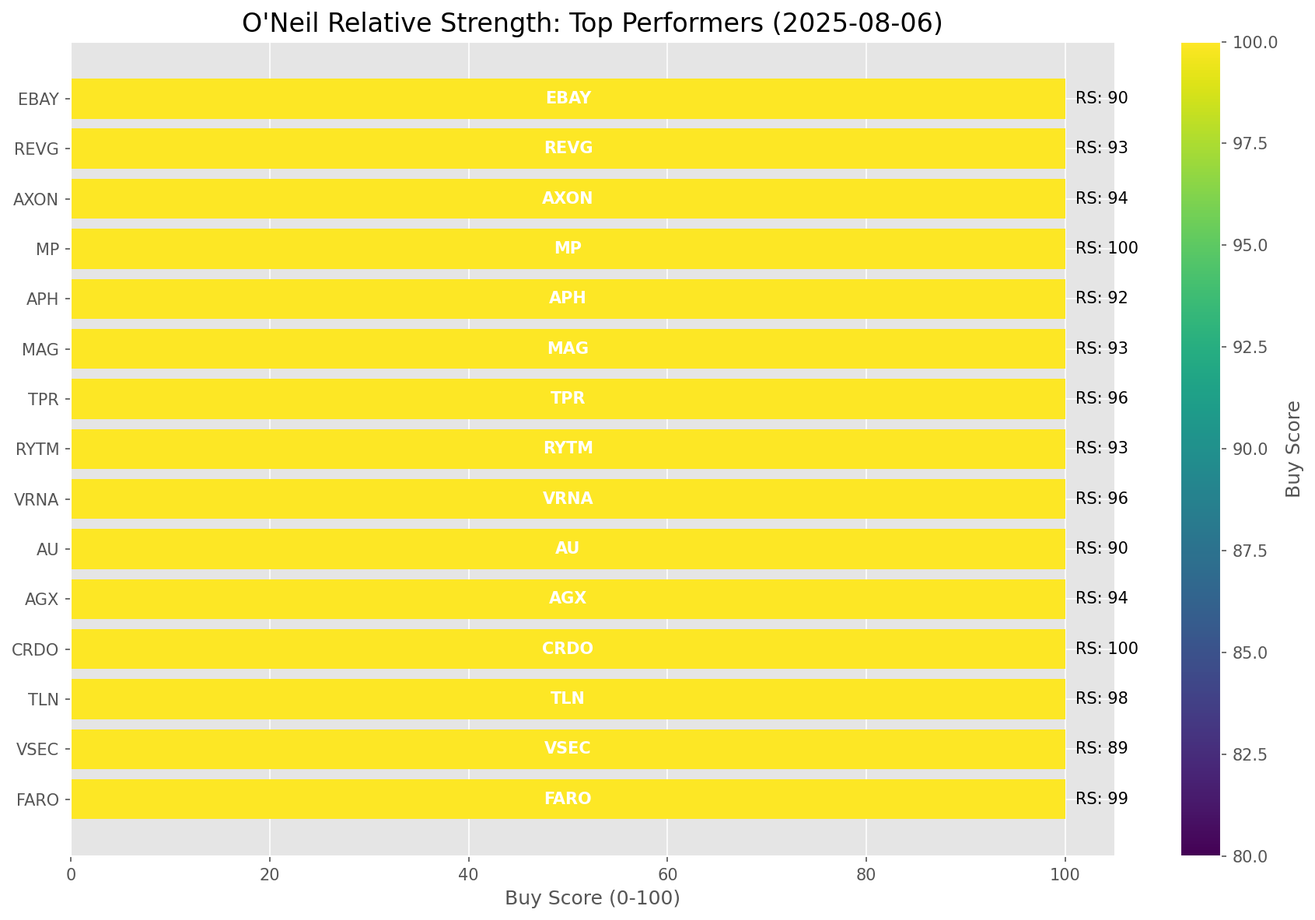
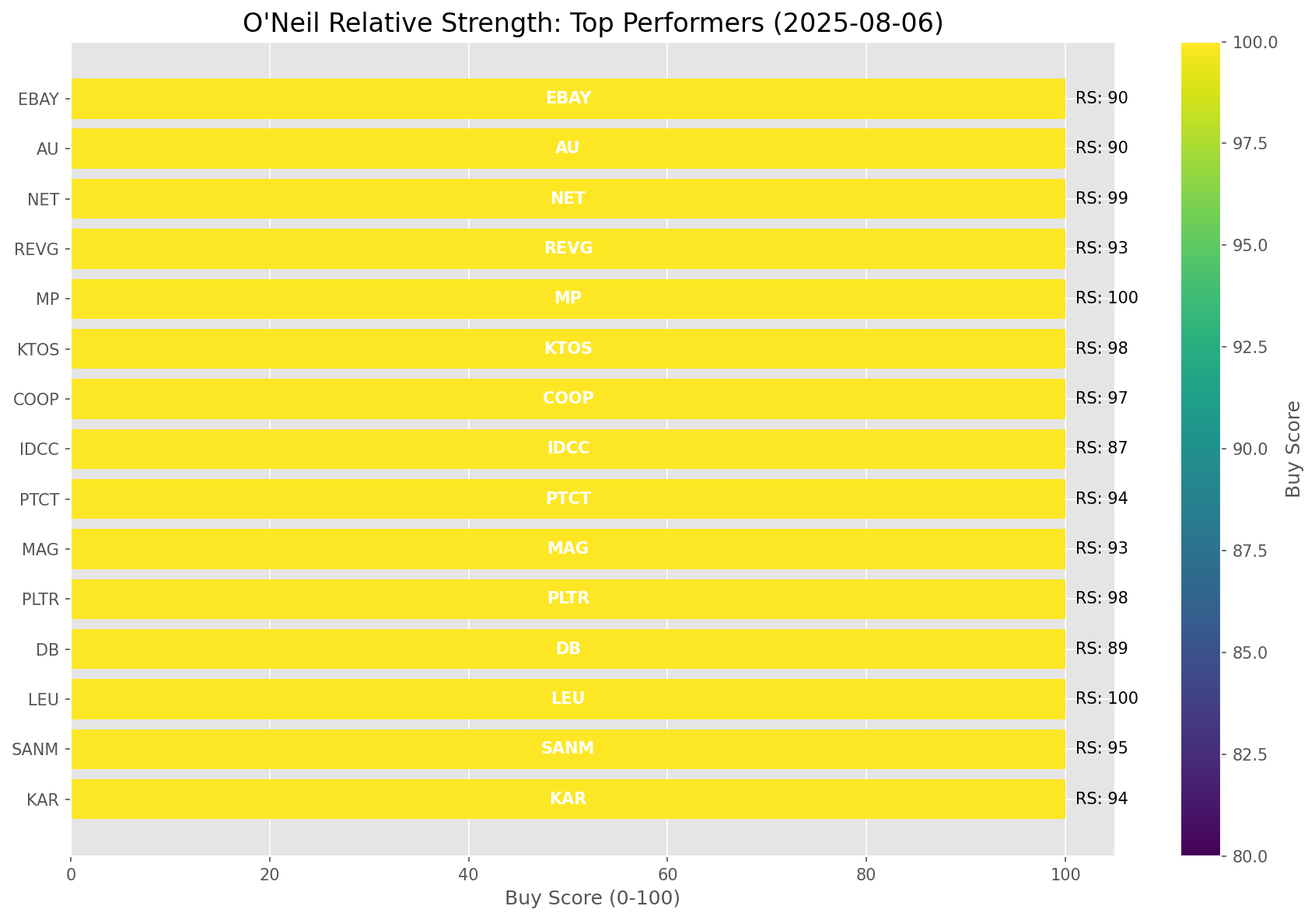
Add market report for 2025-08-06

diff --git a/oneil_relative_strength_report_2025-08-06.md b/oneil_relative_strength_report_2025-08-06.md
@@ -9,11 +9,11 @@
 | Metric | Value |
 |--------|-------|
 | **Market Valuation** | **Overvalued** |
-| **Current Ratio** | 10.21 |
+| **Current Ratio** | 10.24 |
 | **Historical Mean** | 9.62 |
 | **Standard Deviation** | 0.54 |
 | **Z-Score (StdDev from Mean)** | 1.06 |
-| **Total Market Cap** | $309.77 trillion |
+| **Total Market Cap** | $310.57 trillion |
 | **GDP** | $30.33 trillion |
 
 ## **Market Insights**
@@ -49,41 +49,41 @@ Based on William O'Neil's Relative Strength Methodology
 
 | ETF | Strength | RS Rating | Performance | Above Key MAs | Trend | Sector |
 |-----|----------|-----------|-------------|--------------|-------|--------|
-| [URA](https://www.tradingview.com/chart/?symbol=URA) | 98.5 | 97.0 | 57.26% | 10d ✓, 50d ✓, 200d ✓ | ↗ | Uranium |
-| [ARKK](https://www.tradingview.com/chart/?symbol=ARKK) | 88.1 | 96.0 | 49.96% | 10d ✗, 50d ✓, 200d ✓ | ↗ | Innovation |
+| [URA](https://www.tradingview.com/chart/?symbol=URA) | 98.5 | 97.0 | 56.12% | 10d ✓, 50d ✓, 200d ✓ | ↗ | Uranium |
+| [ARKK](https://www.tradingview.com/chart/?symbol=ARKK) | 88.1 | 96.0 | 50.25% | 10d ✗, 50d ✓, 200d ✓ | ↗ | Innovation |
+| [ARKF](https://www.tradingview.com/chart/?symbol=ARKF) | 87.6 | 95.0 | 48.00% | 10d ✗, 50d ✓, 200d ✓ | ↗ | Fintech Innovation |
 | [ARKW](https://www.tradingview.com/chart/?symbol=ARKW) | 87.6 | 95.0 | 47.67% | 10d ✗, 50d ✓, 200d ✓ | ↗ | Next Generation Internet |
-| [ARKF](https://www.tradingview.com/chart/?symbol=ARKF) | 87.6 | 95.0 | 48.08% | 10d ✗, 50d ✓, 200d ✓ | ↗ | Fintech Innovation |
 | [BLOK](https://www.tradingview.com/chart/?symbol=BLOK) | 86.6 | 93.0 | 37.83% | 10d ✗, 50d ✓, 200d ✓ | ↗ | Blockchain & Cryptocurrency |
-| [SLV](https://www.tradingview.com/chart/?symbol=SLV) | 85.0 | 70.0 | 13.89% | 10d ✓, 50d ✓, 200d ✓ | ↗ | Silver |
-| [XLK](https://www.tradingview.com/chart/?symbol=XLK) | 81.1 | 82.0 | 22.22% | 10d ✗, 50d ✓, 200d ✓ | ↗ | Technology |
-| [IYZ](https://www.tradingview.com/chart/?symbol=IYZ) | 81.0 | 62.0 | 9.99% | 10d ✓, 50d ✓, 200d ✓ | ↗ | Telecommunications |
-| [AIQ](https://www.tradingview.com/chart/?symbol=AIQ) | 78.1 | 76.0 | 17.02% | 10d ✗, 50d ✓, 200d ✓ | ↗ | Artificial Intelligence & Technology |
-| [XLU](https://www.tradingview.com/chart/?symbol=XLU) | 77.0 | 54.0 | 6.84% | 10d ✓, 50d ✓, 200d ✓ | ↗ | Utilities |
-| [PAVE](https://www.tradingview.com/chart/?symbol=PAVE) | 76.1 | 72.0 | 15.05% | 10d ✗, 50d ✓, 200d ✓ | ↗ | Infrastructure |
-| [JETS](https://www.tradingview.com/chart/?symbol=JETS) | 74.6 | 69.0 | 13.12% | 10d ✗, 50d ✓, 200d ✓ | ↗ | Airlines |
-| [KWEB](https://www.tradingview.com/chart/?symbol=KWEB) | 74.5 | 49.0 | 5.06% | 10d ✓, 50d ✓, 200d ✓ | ↗ | Chinese Internet |
-| [XLI](https://www.tradingview.com/chart/?symbol=XLI) | 74.1 | 68.0 | 12.47% | 10d ✗, 50d ✓, 200d ✓ | ↗ | Industrial |
-| [XLY](https://www.tradingview.com/chart/?symbol=XLY) | 73.1 | 66.0 | 11.70% | 10d ✗, 50d ✓, 200d ✓ | ↗ | Consumer Discretionary |
-| [XLC](https://www.tradingview.com/chart/?symbol=XLC) | 71.1 | 62.0 | 9.74% | 10d ✗, 50d ✓, 200d ✓ | ↗ | Communications |
-| [ITB](https://www.tradingview.com/chart/?symbol=ITB) | 65.5 | 71.0 | 14.01% | 10d ✓, 50d ✓, 200d ✓ | ↘ | Home Construction |
-| [XLF](https://www.tradingview.com/chart/?symbol=XLF) | 65.1 | 50.0 | 5.36% | 10d ✗, 50d ✓, 200d ✓ | ↗ | Financial |
-| [SOXX](https://www.tradingview.com/chart/?symbol=SOXX) | 63.1 | 86.0 | 25.99% | 10d ✗, 50d ✓, 200d ✓ | ↘ | Semiconductors |
-| [GLD](https://www.tradingview.com/chart/?symbol=GLD) | 62.0 | 24.0 | -1.60% | 10d ✓, 50d ✓, 200d ✓ | ↗ | Gold |
-| [ICLN](https://www.tradingview.com/chart/?symbol=ICLN) | 56.1 | 72.0 | 15.04% | 10d ✗, 50d ✓, 200d ✓ | ↘ | Clean Energy |
-| [CIBR](https://www.tradingview.com/chart/?symbol=CIBR) | 55.7 | 51.0 | 5.99% | 10d ✗, 50d ✗, 200d ✓ | ↗ | Cybersecurity |
-| [IBB](https://www.tradingview.com/chart/?symbol=IBB) | 41.9 | 64.0 | 10.70% | 10d ✗, 50d ✓, 200d ✗ | ↘ | Biotechnology |
-| [IYR](https://www.tradingview.com/chart/?symbol=IYR) | 39.6 | 39.0 | 1.95% | 10d ✗, 50d ✓, 200d ✓ | ↘ | Real Estate |
-| [TLT](https://www.tradingview.com/chart/?symbol=TLT) | 35.3 | 31.0 | 0.45% | 10d ✓, 50d ✓, 200d ✗ | ↘ | Long-term Treasuries |
-| [ARKG](https://www.tradingview.com/chart/?symbol=ARKG) | 34.5 | 69.0 | 13.12% | 10d ✗, 50d ✗, 200d ✗ | ↘ | Genomics |
-| [XLP](https://www.tradingview.com/chart/?symbol=XLP) | 33.6 | 27.0 | -0.50% | 10d ✓, 50d ✗, 200d ✓ | ↘ | Consumer Staples |
+| [SLV](https://www.tradingview.com/chart/?symbol=SLV) | 85.0 | 70.0 | 13.83% | 10d ✓, 50d ✓, 200d ✓ | ↗ | Silver |
+| [XLY](https://www.tradingview.com/chart/?symbol=XLY) | 83.5 | 67.0 | 12.34% | 10d ✓, 50d ✓, 200d ✓ | ↗ | Consumer Discretionary |
+| [XLK](https://www.tradingview.com/chart/?symbol=XLK) | 81.1 | 82.0 | 22.39% | 10d ✗, 50d ✓, 200d ✓ | ↗ | Technology |
+| [IYZ](https://www.tradingview.com/chart/?symbol=IYZ) | 81.0 | 62.0 | 10.19% | 10d ✓, 50d ✓, 200d ✓ | ↗ | Telecommunications |
+| [XLC](https://www.tradingview.com/chart/?symbol=XLC) | 81.0 | 62.0 | 10.16% | 10d ✓, 50d ✓, 200d ✓ | ↗ | Communications |
+| [AIQ](https://www.tradingview.com/chart/?symbol=AIQ) | 78.1 | 76.0 | 17.22% | 10d ✗, 50d ✓, 200d ✓ | ↗ | Artificial Intelligence & Technology |
+| [XLU](https://www.tradingview.com/chart/?symbol=XLU) | 77.0 | 54.0 | 6.94% | 10d ✓, 50d ✓, 200d ✓ | ↗ | Utilities |
+| [PAVE](https://www.tradingview.com/chart/?symbol=PAVE) | 76.1 | 72.0 | 15.31% | 10d ✗, 50d ✓, 200d ✓ | ↗ | Infrastructure |
+| [JETS](https://www.tradingview.com/chart/?symbol=JETS) | 75.1 | 70.0 | 13.50% | 10d ✗, 50d ✓, 200d ✓ | ↗ | Airlines |
+| [XLI](https://www.tradingview.com/chart/?symbol=XLI) | 74.1 | 68.0 | 12.91% | 10d ✗, 50d ✓, 200d ✓ | ↗ | Industrial |
+| [KWEB](https://www.tradingview.com/chart/?symbol=KWEB) | 74.0 | 48.0 | 4.81% | 10d ✓, 50d ✓, 200d ✓ | ↗ | Chinese Internet |
+| [XLF](https://www.tradingview.com/chart/?symbol=XLF) | 65.1 | 50.0 | 5.62% | 10d ✗, 50d ✓, 200d ✓ | ↗ | Financial |
+| [ITB](https://www.tradingview.com/chart/?symbol=ITB) | 65.0 | 70.0 | 13.92% | 10d ✓, 50d ✓, 200d ✓ | ↘ | Home Construction |
+| [SOXX](https://www.tradingview.com/chart/?symbol=SOXX) | 63.1 | 86.0 | 25.74% | 10d ✗, 50d ✓, 200d ✓ | ↘ | Semiconductors |
+| [GLD](https://www.tradingview.com/chart/?symbol=GLD) | 62.0 | 24.0 | -1.42% | 10d ✓, 50d ✓, 200d ✓ | ↗ | Gold |
+| [CIBR](https://www.tradingview.com/chart/?symbol=CIBR) | 56.2 | 52.0 | 6.33% | 10d ✗, 50d ✗, 200d ✓ | ↗ | Cybersecurity |
+| [ICLN](https://www.tradingview.com/chart/?symbol=ICLN) | 55.6 | 71.0 | 14.53% | 10d ✗, 50d ✓, 200d ✓ | ↘ | Clean Energy |
+| [XLP](https://www.tradingview.com/chart/?symbol=XLP) | 45.0 | 30.0 | 0.16% | 10d ✓, 50d ✓, 200d ✓ | ↘ | Consumer Staples |
+| [IBB](https://www.tradingview.com/chart/?symbol=IBB) | 41.9 | 64.0 | 10.83% | 10d ✗, 50d ✓, 200d ✗ | ↘ | Biotechnology |
+| [IYT](https://www.tradingview.com/chart/?symbol=IYT) | 40.7 | 61.0 | 9.67% | 10d ✗, 50d ✗, 200d ✓ | ↘ | Transportation |
+| [IYR](https://www.tradingview.com/chart/?symbol=IYR) | 39.1 | 38.0 | 1.89% | 10d ✗, 50d ✓, 200d ✓ | ↘ | Real Estate |
+| [TLT](https://www.tradingview.com/chart/?symbol=TLT) | 35.3 | 31.0 | 0.49% | 10d ✓, 50d ✓, 200d ✗ | ↘ | Long-term Treasuries |
+| [ARKG](https://www.tradingview.com/chart/?symbol=ARKG) | 34.5 | 69.0 | 13.40% | 10d ✗, 50d ✗, 200d ✗ | ↘ | Genomics |
+| [DBC](https://www.tradingview.com/chart/?symbol=DBC) | 34.2 | 48.0 | 4.96% | 10d ✗, 50d ✗, 200d ✓ | ↘ | Commodities |
 | [DBA](https://www.tradingview.com/chart/?symbol=DBA) | 31.0 | 22.0 | -2.63% | 10d ✗, 50d ✗, 200d ✗ | ↗ | Agriculture |
-| [IYT](https://www.tradingview.com/chart/?symbol=IYT) | 30.0 | 60.0 | 9.03% | 10d ✗, 50d ✗, 200d ✗ | ↘ | Transportation |
-| [XLE](https://www.tradingview.com/chart/?symbol=XLE) | 26.5 | 53.0 | 6.57% | 10d ✗, 50d ✗, 200d ✗ | ↘ | Energy |
-| [UUP](https://www.tradingview.com/chart/?symbol=UUP) | 25.9 | 32.0 | 0.57% | 10d ✗, 50d ✓, 200d ✗ | ↘ | U.S. Dollar |
-| [DBC](https://www.tradingview.com/chart/?symbol=DBC) | 25.5 | 51.0 | 5.72% | 10d ✗, 50d ✗, 200d ✗ | ↘ | Commodities |
-| [XLB](https://www.tradingview.com/chart/?symbol=XLB) | 24.5 | 49.0 | 5.15% | 10d ✗, 50d ✗, 200d ✗ | ↘ | Materials |
-| [BIL](https://www.tradingview.com/chart/?symbol=BIL) | 14.0 | 28.0 | 0.02% | 10d ✗, 50d ✗, 200d ✗ | ↘ | Short-term Treasuries |
-| [XLV](https://www.tradingview.com/chart/?symbol=XLV) | 11.5 | 23.0 | -2.14% | 10d ✗, 50d ✗, 200d ✗ | ↘ | Healthcare |
+| [XLE](https://www.tradingview.com/chart/?symbol=XLE) | 26.0 | 52.0 | 6.40% | 10d ✗, 50d ✗, 200d ✗ | ↘ | Energy |
+| [UUP](https://www.tradingview.com/chart/?symbol=UUP) | 25.4 | 31.0 | 0.48% | 10d ✗, 50d ✓, 200d ✗ | ↘ | U.S. Dollar |
+| [XLB](https://www.tradingview.com/chart/?symbol=XLB) | 24.0 | 48.0 | 4.96% | 10d ✗, 50d ✗, 200d ✗ | ↘ | Materials |
+| [BIL](https://www.tradingview.com/chart/?symbol=BIL) | 14.5 | 29.0 | 0.02% | 10d ✗, 50d ✗, 200d ✗ | ↘ | Short-term Treasuries |
+| [XLV](https://www.tradingview.com/chart/?symbol=XLV) | 11.5 | 23.0 | -2.40% | 10d ✗, 50d ✗, 200d ✗ | ↘ | Healthcare |
 
 ### **Sector ETF Performance Interpretation**
 
@@ -98,125 +98,127 @@ This table shows the relative strength metrics for different market sectors base
 
 ### **Current Sector Leadership**
 
-The current market leadership is coming from the following sectors: **Uranium, Innovation, Next Generation Internet**.
+The current market leadership is coming from the following sectors: **Uranium, Innovation, Fintech Innovation**.
 
-The **Uranium** sector (represented by **URA**) is showing particularly strong relative strength with an RS rating of 97.0 and performance of 57.26% vs. the S&P 500. This sector is trading above its 10-day, 50-day, 200-day moving average(s). Investors should consider focusing on high RS stocks within these leading sectors for potential outperformance.
+The **Uranium** sector (represented by **URA**) is showing particularly strong relative strength with an RS rating of 97.0 and performance of 56.12% vs. the S&P 500. This sector is trading above its 10-day, 50-day, 200-day moving average(s). Investors should consider focusing on high RS stocks within these leading sectors for potential outperformance.
 
 ---
 
 ## **Buy Recommendations**
 
-The following 52 stocks show exceptional relative strength:
+The following 55 stocks show exceptional relative strength:
 
 | RS Rating | Buy Score | Current Price | Chart | Name | Ticker |
 |-----------|-----------|---------------|-------|------|--------|
-| 100 | 100 | $115.15 | [Chart](https://www.tradingview.com/chart/?symbol=CRDO) | Credo Technology Group Holding Ltd Ordinary Shares | CRDO |
-| 100 | 100 | $69.80 | [Chart](https://www.tradingview.com/chart/?symbol=MP) | MP Materials Corp. | MP |
-| 100 | 100 | $196.09 | [Chart](https://www.tradingview.com/chart/?symbol=CLS) | Celestica, Inc. | CLS |
-| 100 | 100 | $258.64 | [Chart](https://www.tradingview.com/chart/?symbol=LEU) | Centrus Energy Corp. | LEU |
-| 99 | 100 | $25.02 | [Chart](https://www.tradingview.com/chart/?symbol=EYE) | National Vision Holdings, Inc. Common Stock | EYE |
-| 99 | 100 | $211.98 | [Chart](https://www.tradingview.com/chart/?symbol=NET) | Cloudflare, Inc. Class A common stock, par value $0.001 per share | NET |
-| 99 | 100 | $130.44 | [Chart](https://www.tradingview.com/chart/?symbol=RBLX) | Roblox Corporation | RBLX |
-| 98 | 100 | $379.87 | [Chart](https://www.tradingview.com/chart/?symbol=TLN) | Talen Energy Corporation Common Stock | TLN |
-| 98 | 100 | $58.66 | [Chart](https://www.tradingview.com/chart/?symbol=KTOS) | Kratos Defense & Security Solutions, Inc. | KTOS |
-| 98 | 100 | $175.80 | [Chart](https://www.tradingview.com/chart/?symbol=PLTR) | Palantir Technologies Inc. Class A Common Stock | PLTR |
-| 98 | 100 | $656.42 | [Chart](https://www.tradingview.com/chart/?symbol=GEV) | GE Vernova Inc. | GEV |
-| 97 | 100 | $38.73 | [Chart](https://www.tradingview.com/chart/?symbol=NNE) | Nano Nuclear Energy Inc. Common Stock | NNE |
-| 97 | 100 | $188.26 | [Chart](https://www.tradingview.com/chart/?symbol=COOP) | Mr. Cooper Group Inc. Common Stock | COOP |
-| 96 | 100 | $105.25 | [Chart](https://www.tradingview.com/chart/?symbol=VRNA) | Verona Pharma plc | VRNA |
-| 96 | 100 | $111.90 | [Chart](https://www.tradingview.com/chart/?symbol=TPR) | Tapestry, Inc. Common Stock | TPR |
+| 100 | 100 | $251.50 | [Chart](https://www.tradingview.com/chart/?symbol=LEU) | Centrus Energy Corp. | LEU |
+| 100 | 100 | $68.21 | [Chart](https://www.tradingview.com/chart/?symbol=MP) | MP Materials Corp. | MP |
+| 100 | 100 | $115.26 | [Chart](https://www.tradingview.com/chart/?symbol=CRDO) | Credo Technology Group Holding Ltd Ordinary Shares | CRDO |
+| 100 | 100 | $195.53 | [Chart](https://www.tradingview.com/chart/?symbol=CLS) | Celestica, Inc. | CLS |
+| 99 | 100 | $212.70 | [Chart](https://www.tradingview.com/chart/?symbol=NET) | Cloudflare, Inc. Class A common stock, par value $0.001 per share | NET |
+| 99 | 100 | $131.47 | [Chart](https://www.tradingview.com/chart/?symbol=RBLX) | Roblox Corporation | RBLX |
+| 99 | 100 | $76.75 | [Chart](https://www.tradingview.com/chart/?symbol=LIF) | Life360, Inc. Common Stock | LIF |
+| 98 | 100 | $179.19 | [Chart](https://www.tradingview.com/chart/?symbol=PLTR) | Palantir Technologies Inc. Class A Common Stock | PLTR |
+| 98 | 100 | $58.58 | [Chart](https://www.tradingview.com/chart/?symbol=KTOS) | Kratos Defense & Security Solutions, Inc. | KTOS |
+| 98 | 100 | $382.62 | [Chart](https://www.tradingview.com/chart/?symbol=TLN) | Talen Energy Corporation Common Stock | TLN |
+| 98 | 100 | $655.99 | [Chart](https://www.tradingview.com/chart/?symbol=GEV) | GE Vernova Inc. | GEV |
+| 97 | 100 | $185.18 | [Chart](https://www.tradingview.com/chart/?symbol=COOP) | Mr. Cooper Group Inc. Common Stock | COOP |
+| 97 | 100 | $112.11 | [Chart](https://www.tradingview.com/chart/?symbol=TPR) | Tapestry, Inc. Common Stock | TPR |
+| 97 | 100 | $38.60 | [Chart](https://www.tradingview.com/chart/?symbol=NNE) | Nano Nuclear Energy Inc. Common Stock | NNE |
 | 96 | 100 | $35.84 | [Chart](https://www.tradingview.com/chart/?symbol=ATRO) | Astronics Corp | ATRO |
-| 95 | 100 | $117.05 | [Chart](https://www.tradingview.com/chart/?symbol=SANM) | Sanmina  Corp | SANM |
-| 94 | 100 | $233.13 | [Chart](https://www.tradingview.com/chart/?symbol=AGX) | Argan, Inc | AGX |
-| 94 | 100 | $858.61 | [Chart](https://www.tradingview.com/chart/?symbol=AXON) | Axon Enterprise, Inc. Common Stock | AXON |
+| 96 | 100 | $105.25 | [Chart](https://www.tradingview.com/chart/?symbol=VRNA) | Verona Pharma plc | VRNA |
+| 95 | 100 | $115.22 | [Chart](https://www.tradingview.com/chart/?symbol=SANM) | Sanmina  Corp | SANM |
+| 95 | 100 | $869.48 | [Chart](https://www.tradingview.com/chart/?symbol=AXON) | Axon Enterprise, Inc. Common Stock | AXON |
+| 94 | 100 | $27.21 | [Chart](https://www.tradingview.com/chart/?symbol=KAR) | OPENLANE, Inc | KAR |
+| 94 | 100 | $50.70 | [Chart](https://www.tradingview.com/chart/?symbol=PTCT) | PTC Therapeutics, Inc. | PTCT |
 | 94 | 100 | $51.45 | [Chart](https://www.tradingview.com/chart/?symbol=BBW) | Build-A-Bear Workshop, Inc. | BBW |
-| 94 | 100 | $27.25 | [Chart](https://www.tradingview.com/chart/?symbol=KAR) | OPENLANE, Inc | KAR |
 | 94 | 100 | $511.64 | [Chart](https://www.tradingview.com/chart/?symbol=CW) | Curtiss-Wright Corp. | CW |
-| 93 | 100 | $88.57 | [Chart](https://www.tradingview.com/chart/?symbol=RYTM) | Rhythm Pharmaceuticals, Inc. Common Stock | RYTM |
-| 93 | 100 | $21.68 | [Chart](https://www.tradingview.com/chart/?symbol=MAG) | MAG Silver Corp. | MAG |
+| 93 | 100 | $21.59 | [Chart](https://www.tradingview.com/chart/?symbol=MAG) | MAG Silver Corp. | MAG |
 | 93 | 100 | $49.63 | [Chart](https://www.tradingview.com/chart/?symbol=REVG) | REV Group, Inc. | REVG |
-| 92 | 100 | $108.18 | [Chart](https://www.tradingview.com/chart/?symbol=APH) | Amphenol Corporation | APH |
-| 92 | 100 | $349.15 | [Chart](https://www.tradingview.com/chart/?symbol=CVNA) | Carvana Co. | CVNA |
-| 92 | 100 | $87.53 | [Chart](https://www.tradingview.com/chart/?symbol=TPB) | Turning Point Brands, Inc. | TPB |
+| 93 | 100 | $88.57 | [Chart](https://www.tradingview.com/chart/?symbol=RYTM) | Rhythm Pharmaceuticals, Inc. Common Stock | RYTM |
+| 93 | 100 | $89.11 | [Chart](https://www.tradingview.com/chart/?symbol=TPB) | Turning Point Brands, Inc. | TPB |
+| 92 | 100 | $108.67 | [Chart](https://www.tradingview.com/chart/?symbol=APH) | Amphenol Corporation | APH |
+| 92 | 100 | $349.82 | [Chart](https://www.tradingview.com/chart/?symbol=CVNA) | Carvana Co. | CVNA |
 | 91 | 100 | $43.19 | [Chart](https://www.tradingview.com/chart/?symbol=LTM) | LATAM Airlines Group S.A. American Depositary Shares (each representing two thousand (2,000) shares of Common Stock) | LTM |
-| 90 | 100 | $57.40 | [Chart](https://www.tradingview.com/chart/?symbol=AU) | AngloGold Ashanti plc | AU |
-| 90 | 100 | $91.90 | [Chart](https://www.tradingview.com/chart/?symbol=EBAY) | eBay Inc | EBAY |
-| 90 | 100 | $271.53 | [Chart](https://www.tradingview.com/chart/?symbol=GE) | GE Aerospace | GE |
-| 90 | 100 | $726.06 | [Chart](https://www.tradingview.com/chart/?symbol=GS) | Goldman Sachs Group Inc. | GS |
+| 90 | 100 | $57.77 | [Chart](https://www.tradingview.com/chart/?symbol=AU) | AngloGold Ashanti plc | AU |
+| 90 | 100 | $92.09 | [Chart](https://www.tradingview.com/chart/?symbol=EBAY) | eBay Inc | EBAY |
+| 90 | 100 | $273.73 | [Chart](https://www.tradingview.com/chart/?symbol=GE) | GE Aerospace | GE |
+| 90 | 100 | $725.05 | [Chart](https://www.tradingview.com/chart/?symbol=GS) | Goldman Sachs Group Inc. | GS |
+| 90 | 100 | $38.85 | [Chart](https://www.tradingview.com/chart/?symbol=ZLAB) | Zai Lab Limited American Depositary Shares | ZLAB |
+| 89 | 100 | $34.59 | [Chart](https://www.tradingview.com/chart/?symbol=DB) | Deutsche Bank Aktiengesellschaft | DB |
 | 89 | 100 | $158.47 | [Chart](https://www.tradingview.com/chart/?symbol=VSEC) | VSE Corp | VSEC |
-| 89 | 100 | $34.56 | [Chart](https://www.tradingview.com/chart/?symbol=DB) | Deutsche Bank Aktiengesellschaft | DB |
 | 87 | 100 | $269.60 | [Chart](https://www.tradingview.com/chart/?symbol=IDCC) | InterDigital, Inc. | IDCC |
-| 88 | 99 | $39.51 | [Chart](https://www.tradingview.com/chart/?symbol=ZLAB) | Zai Lab Limited American Depositary Shares | ZLAB |
-| 87 | 99 | $56.38 | [Chart](https://www.tradingview.com/chart/?symbol=BTI) | British American Tobacco p.l.c. American Depositary Shares, American Depositary Shares, each representing one Ordinary Share | BTI |
-| 86 | 99 | $58.35 | [Chart](https://www.tradingview.com/chart/?symbol=ERJ) | Embraer S.A. | ERJ |
-| 88 | 98 | $19.79 | [Chart](https://www.tradingview.com/chart/?symbol=LQDA) | Liquidia Corporation Common Stock | LQDA |
+| 87 | 99 | $56.44 | [Chart](https://www.tradingview.com/chart/?symbol=BTI) | British American Tobacco p.l.c. American Depositary Shares, American Depositary Shares, each representing one Ordinary Share | BTI |
+| 88 | 98 | $19.87 | [Chart](https://www.tradingview.com/chart/?symbol=LQDA) | Liquidia Corporation Common Stock | LQDA |
+| 85 | 98 | $40.47 | [Chart](https://www.tradingview.com/chart/?symbol=AHR) | American Healthcare REIT, Inc. | AHR |
+| 85 | 98 | $57.97 | [Chart](https://www.tradingview.com/chart/?symbol=ERJ) | Embraer S.A. | ERJ |
 | 87 | 97 | $190.76 | [Chart](https://www.tradingview.com/chart/?symbol=AWI) | Armstrong World Industries, Inc. | AWI |
-| 87 | 97 | $387.25 | [Chart](https://www.tradingview.com/chart/?symbol=APP) | Applovin Corporation Class A Common Stock | APP |
-| 84 | 97 | $40.06 | [Chart](https://www.tradingview.com/chart/?symbol=AHR) | American Healthcare REIT, Inc. | AHR |
-| 86 | 96 | $51.11 | [Chart](https://www.tradingview.com/chart/?symbol=PTCT) | PTC Therapeutics, Inc. | PTCT |
-| 83 | 95 | $101.47 | [Chart](https://www.tradingview.com/chart/?symbol=BK) | Bank of New York Mellon Corporation | BK |
-| 84 | 94 | $51.41 | [Chart](https://www.tradingview.com/chart/?symbol=FHI) | Federated Hermes, Inc. | FHI |
-| 84 | 94 | $51.38 | [Chart](https://www.tradingview.com/chart/?symbol=SIL) | Global X Silver Miners ETF (NEW) | SIL |
-| 83 | 94 | $147.22 | [Chart](https://www.tradingview.com/chart/?symbol=PPA) | Invesco Aerospace & Defense ETF | PPA |
-| 83 | 93 | $95.78 | [Chart](https://www.tradingview.com/chart/?symbol=NDAQ) | Nasdaq, Inc. Common Stock | NDAQ |
+| 86 | 96 | $384.13 | [Chart](https://www.tradingview.com/chart/?symbol=APP) | Applovin Corporation Class A Common Stock | APP |
+| 84 | 95 | $197.97 | [Chart](https://www.tradingview.com/chart/?symbol=ITA) | iShares U.S. Aerospace & Defense ETF | ITA |
+| 81 | 95 | $19.55 | [Chart](https://www.tradingview.com/chart/?symbol=BCS) | Barclays PLC | BCS |
+| 84 | 94 | $52.05 | [Chart](https://www.tradingview.com/chart/?symbol=AKRO) | Akero Therapeutics, Inc. Common Stock | AKRO |
+| 84 | 94 | $51.53 | [Chart](https://www.tradingview.com/chart/?symbol=SIL) | Global X Silver Miners ETF (NEW) | SIL |
+| 82 | 94 | $101.28 | [Chart](https://www.tradingview.com/chart/?symbol=BK) | Bank of New York Mellon Corporation | BK |
+| 81 | 94 | $89.94 | [Chart](https://www.tradingview.com/chart/?symbol=RBRK) | Rubrik, Inc. | RBRK |
+| 83 | 93 | $96.29 | [Chart](https://www.tradingview.com/chart/?symbol=NDAQ) | Nasdaq, Inc. Common Stock | NDAQ |
 | 82 | 93 | $114.29 | [Chart](https://www.tradingview.com/chart/?symbol=SXT) | Sensient Technology Corporation | SXT |
-| 82 | 92 | $261.75 | [Chart](https://www.tradingview.com/chart/?symbol=WTS) | Watts Water Technologies, Inc. Class A | WTS |
-| 80 | 91 | $242.00 | [Chart](https://www.tradingview.com/chart/?symbol=BAP) | Credicorp LTD | BAP |
+| 80 | 93 | $63.50 | [Chart](https://www.tradingview.com/chart/?symbol=SHLD) | Global X Defense Tech ETF | SHLD |
+| 82 | 92 | $51.31 | [Chart](https://www.tradingview.com/chart/?symbol=FHI) | Federated Hermes, Inc. | FHI |
+| 81 | 92 | $147.47 | [Chart](https://www.tradingview.com/chart/?symbol=PPA) | Invesco Aerospace & Defense ETF | PPA |
+| 81 | 91 | $261.55 | [Chart](https://www.tradingview.com/chart/?symbol=WTS) | Watts Water Technologies, Inc. Class A | WTS |
 
 ---
 
 
 ## **Sell Recommendations**
 
-The following 45 stocks show deteriorating relative strength:
+The following 44 stocks show deteriorating relative strength:
 
 | RS Rating | Sell Score | Current Price | Chart | Name | Ticker |
 |-----------|------------|---------------|-------|------|--------|
-| 1 | 100 | $11.92 | [Chart](https://www.tradingview.com/chart/?symbol=NVDS) | Investment Managers Series Trust II Tradr 1.5X Short NVDA Daily ETF | NVDS |
-| 2 | 100 | $16.25 | [Chart](https://www.tradingview.com/chart/?symbol=DJT) | Trump Media & Technology Group Corp. Common Stock | DJT |
-| 2 | 100 | $13.66 | [Chart](https://www.tradingview.com/chart/?symbol=CLBT) | Cellebrite DI Ltd. Class A Ordinary Shares | CLBT |
-| 4 | 100 | $41.69 | [Chart](https://www.tradingview.com/chart/?symbol=SDOW) | ProShares UltraPro Short Dow 30 | SDOW |
-| 4 | 100 | $24.71 | [Chart](https://www.tradingview.com/chart/?symbol=TBBB) | BBB Foods Inc. | TBBB |
+| 1 | 100 | $12.00 | [Chart](https://www.tradingview.com/chart/?symbol=NVDS) | Investment Managers Series Trust II Tradr 1.5X Short NVDA Daily ETF | NVDS |
+| 2 | 100 | $13.69 | [Chart](https://www.tradingview.com/chart/?symbol=CLBT) | Cellebrite DI Ltd. Class A Ordinary Shares | CLBT |
+| 2 | 100 | $16.21 | [Chart](https://www.tradingview.com/chart/?symbol=DJT) | Trump Media & Technology Group Corp. Common Stock | DJT |
+| 4 | 100 | $41.52 | [Chart](https://www.tradingview.com/chart/?symbol=SDOW) | ProShares UltraPro Short Dow 30 | SDOW |
+| 4 | 100 | $24.50 | [Chart](https://www.tradingview.com/chart/?symbol=TBBB) | BBB Foods Inc. | TBBB |
 | 6 | 100 | $10.37 | [Chart](https://www.tradingview.com/chart/?symbol=OEC) | Orion S.A. | OEC |
+| 8 | 100 | $46.67 | [Chart](https://www.tradingview.com/chart/?symbol=PRCT) | PROCEPT BioRobotics Corporation Common Stock | PRCT |
 | 9 | 100 | $36.23 | [Chart](https://www.tradingview.com/chart/?symbol=LZB) | La-Z-Boy Incorporated | LZB |
-| 10 | 100 | $47.38 | [Chart](https://www.tradingview.com/chart/?symbol=PRCT) | PROCEPT BioRobotics Corporation Common Stock | PRCT |
-| 10 | 100 | $54.64 | [Chart](https://www.tradingview.com/chart/?symbol=HRB) | H&R Block, Inc. | HRB |
-| 12 | 100 | $31.14 | [Chart](https://www.tradingview.com/chart/?symbol=JD) | JD.com, Inc. | JD |
-| 7 | 99 | $24.37 | [Chart](https://www.tradingview.com/chart/?symbol=DXD) | ProShares UltraShort Dow 30 | DXD |
-| 6 | 98 | $13.74 | [Chart](https://www.tradingview.com/chart/?symbol=EWTX) | Edgewise Therapeutics, Inc. Common Stock | EWTX |
-| 8 | 98 | $19.80 | [Chart](https://www.tradingview.com/chart/?symbol=GAP) | The Gap, Inc. | GAP |
+| 11 | 100 | $55.09 | [Chart](https://www.tradingview.com/chart/?symbol=HRB) | H&R Block, Inc. | HRB |
+| 12 | 100 | $31.04 | [Chart](https://www.tradingview.com/chart/?symbol=JD) | JD.com, Inc. | JD |
+| 7 | 99 | $24.30 | [Chart](https://www.tradingview.com/chart/?symbol=DXD) | ProShares UltraShort Dow 30 | DXD |
+| 9 | 99 | $12.50 | [Chart](https://www.tradingview.com/chart/?symbol=CDNA) | CareDx, Inc. | CDNA |
 | 9 | 98 | $22.54 | [Chart](https://www.tradingview.com/chart/?symbol=ERY) | Direxion Daily Energy Bear 2X Shares | ERY |
-| 10 | 98 | $39.23 | [Chart](https://www.tradingview.com/chart/?symbol=SH) | ProShares Short S&P500 | SH |
 | 13 | 98 | $16.49 | [Chart](https://www.tradingview.com/chart/?symbol=CTO) | CTO Realty Growth, Inc. | CTO |
-| 6 | 96 | $15.83 | [Chart](https://www.tradingview.com/chart/?symbol=KRNT) | Kornit Digital Ltd. | KRNT |
+| 9 | 97 | $19.95 | [Chart](https://www.tradingview.com/chart/?symbol=GAP) | The Gap, Inc. | GAP |
+| 10 | 97 | $39.14 | [Chart](https://www.tradingview.com/chart/?symbol=SH) | ProShares Short S&P500 | SH |
 | 7 | 96 | $20.73 | [Chart](https://www.tradingview.com/chart/?symbol=BLFS) | BioLife Solutions Inc. | BLFS |
+| 13 | 96 | $13.22 | [Chart](https://www.tradingview.com/chart/?symbol=EWTX) | Edgewise Therapeutics, Inc. Common Stock | EWTX |
+| 14 | 95 | $41.89 | [Chart](https://www.tradingview.com/chart/?symbol=BILL) | BILL Holdings, Inc. | BILL |
 | 10 | 94 | $15.25 | [Chart](https://www.tradingview.com/chart/?symbol=PLSE) | Pulse Biosciences, Inc Common Stock (DE) | PLSE |
 | 12 | 94 | $19.45 | [Chart](https://www.tradingview.com/chart/?symbol=AVBP) | ArriVent BioPharma, Inc. Common Stock | AVBP |
-| 15 | 94 | $42.01 | [Chart](https://www.tradingview.com/chart/?symbol=BILL) | BILL Holdings, Inc. | BILL |
+| 16 | 94 | $36.78 | [Chart](https://www.tradingview.com/chart/?symbol=PBA) | PEMBINA PIPELINE CORPORATION | PBA |
+| 11 | 93 | $13.83 | [Chart](https://www.tradingview.com/chart/?symbol=OSPN) | OneSpan Inc. Common Stock | OSPN |
 | 16 | 93 | $13.23 | [Chart](https://www.tradingview.com/chart/?symbol=GOOD) | Gladstone Commercial Corporation - REIT | GOOD |
-| 17 | 93 | $36.82 | [Chart](https://www.tradingview.com/chart/?symbol=PBA) | PEMBINA PIPELINE CORPORATION | PBA |
+| 19 | 93 | $22.56 | [Chart](https://www.tradingview.com/chart/?symbol=CURB) | Curbline Properties Corp. | CURB |
 | 10 | 92 | $10.26 | [Chart](https://www.tradingview.com/chart/?symbol=ACIC) | American Coastal Insurance Corporation Common Stock | ACIC |
-| 20 | 92 | $22.66 | [Chart](https://www.tradingview.com/chart/?symbol=CURB) | Curbline Properties Corp. | CURB |
-| 13 | 91 | $227.84 | [Chart](https://www.tradingview.com/chart/?symbol=WDAY) | Workday, Inc. Class A Common Stock | WDAY |
-| 15 | 91 | $15.66 | [Chart](https://www.tradingview.com/chart/?symbol=FIHL) | Fidelis Insurance Holdings Limited | FIHL |
-| 16 | 90 | $85.85 | [Chart](https://www.tradingview.com/chart/?symbol=BIDU) | Baidu, Inc. | BIDU |
-| 18 | 89 | $12.84 | [Chart](https://www.tradingview.com/chart/?symbol=CCRN) | Cross Country Healthcare Inc | CCRN |
-| 23 | 89 | $44.26 | [Chart](https://www.tradingview.com/chart/?symbol=EPI) | WisdomTree India Earnings Fund ETF | EPI |
-| 17 | 85 | $14.32 | [Chart](https://www.tradingview.com/chart/?symbol=OSPN) | OneSpan Inc. Common Stock | OSPN |
-| 24 | 85 | $37.63 | [Chart](https://www.tradingview.com/chart/?symbol=VNO) | Vornado Realty Trust | VNO |
-| 17 | 84 | $60.28 | [Chart](https://www.tradingview.com/chart/?symbol=UL) | Unilever plc | UL |
-| 30 | 84 | $16.75 | [Chart](https://www.tradingview.com/chart/?symbol=SVOL) | Simplify Volatility Premium ETF | SVOL |
+| 13 | 92 | $12.89 | [Chart](https://www.tradingview.com/chart/?symbol=BSM) | Black Stone Minerals, L.P. | BSM |
+| 17 | 92 | $15.85 | [Chart](https://www.tradingview.com/chart/?symbol=FIHL) | Fidelis Insurance Holdings Limited | FIHL |
+| 14 | 90 | $229.12 | [Chart](https://www.tradingview.com/chart/?symbol=WDAY) | Workday, Inc. Class A Common Stock | WDAY |
+| 17 | 90 | $12.84 | [Chart](https://www.tradingview.com/chart/?symbol=CCRN) | Cross Country Healthcare Inc | CCRN |
+| 22 | 90 | $44.25 | [Chart](https://www.tradingview.com/chart/?symbol=EPI) | WisdomTree India Earnings Fund ETF | EPI |
+| 16 | 89 | $85.56 | [Chart](https://www.tradingview.com/chart/?symbol=BIDU) | Baidu, Inc. | BIDU |
+| 24 | 85 | $37.79 | [Chart](https://www.tradingview.com/chart/?symbol=VNO) | Vornado Realty Trust | VNO |
+| 17 | 83 | $60.48 | [Chart](https://www.tradingview.com/chart/?symbol=UL) | Unilever plc | UL |
 | 21 | 82 | $12.17 | [Chart](https://www.tradingview.com/chart/?symbol=WSR) | Whitestone REIT | WSR |
 | 22 | 82 | $17.47 | [Chart](https://www.tradingview.com/chart/?symbol=DIV) | Global X SuperDividend U.S. ETF | DIV |
 | 25 | 80 | $12.35 | [Chart](https://www.tradingview.com/chart/?symbol=RQI) | COHEN & STEERS QUALITY INCOME REALTY FUND, INC. COMMON SHARES | RQI |
-| 28 | 78 | $23.31 | [Chart](https://www.tradingview.com/chart/?symbol=IBTF) | iShares iBonds Dec 2025 Term Treasury ETF | IBTF |
-| 26 | 77 | $12.34 | [Chart](https://www.tradingview.com/chart/?symbol=NU) | Nu Holdings Ltd. | NU |
+| 23 | 79 | $12.16 | [Chart](https://www.tradingview.com/chart/?symbol=NU) | Nu Holdings Ltd. | NU |
+| 28 | 77 | $23.30 | [Chart](https://www.tradingview.com/chart/?symbol=IBTF) | iShares iBonds Dec 2025 Term Treasury ETF | IBTF |
 | 30 | 74 | $30.75 | [Chart](https://www.tradingview.com/chart/?symbol=FLRN) | SPDR Bloomberg Investment Grade Floating Rate ETF | FLRN |
 | 28 | 73 | $23.92 | [Chart](https://www.tradingview.com/chart/?symbol=FFBC) | First Financial Bancorp | FFBC |
-| 37 | 69 | $44.99 | [Chart](https://www.tradingview.com/chart/?symbol=PRKS) | United Parks & Resorts Inc. | PRKS |
+| 37 | 69 | $52.09 | [Chart](https://www.tradingview.com/chart/?symbol=LW) | Lamb Weston Holdings, Inc. | LW |
 | 38 | 69 | $24.09 | [Chart](https://www.tradingview.com/chart/?symbol=FLBL) | Franklin Senior Loan ETF | FLBL |
-| 32 | 68 | $20.07 | [Chart](https://www.tradingview.com/chart/?symbol=INTC) | Intel Corp | INTC |
-| 35 | 68 | $68.88 | [Chart](https://www.tradingview.com/chart/?symbol=PYPL) | PayPal Holdings, Inc. Common Stock | PYPL |
+| 37 | 65 | $69.11 | [Chart](https://www.tradingview.com/chart/?symbol=PYPL) | PayPal Holdings, Inc. Common Stock | PYPL |
 
 ## **Methodology**
 
